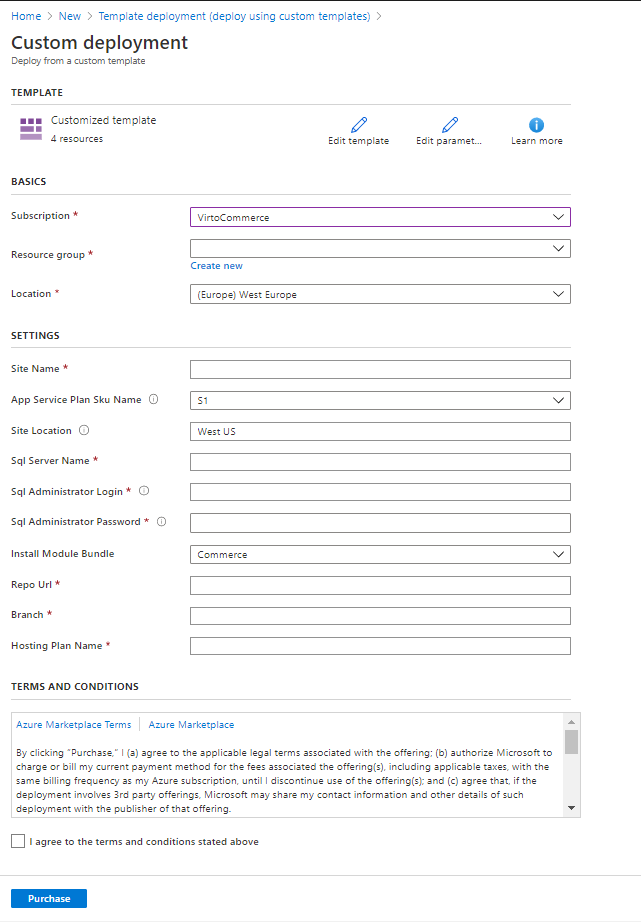
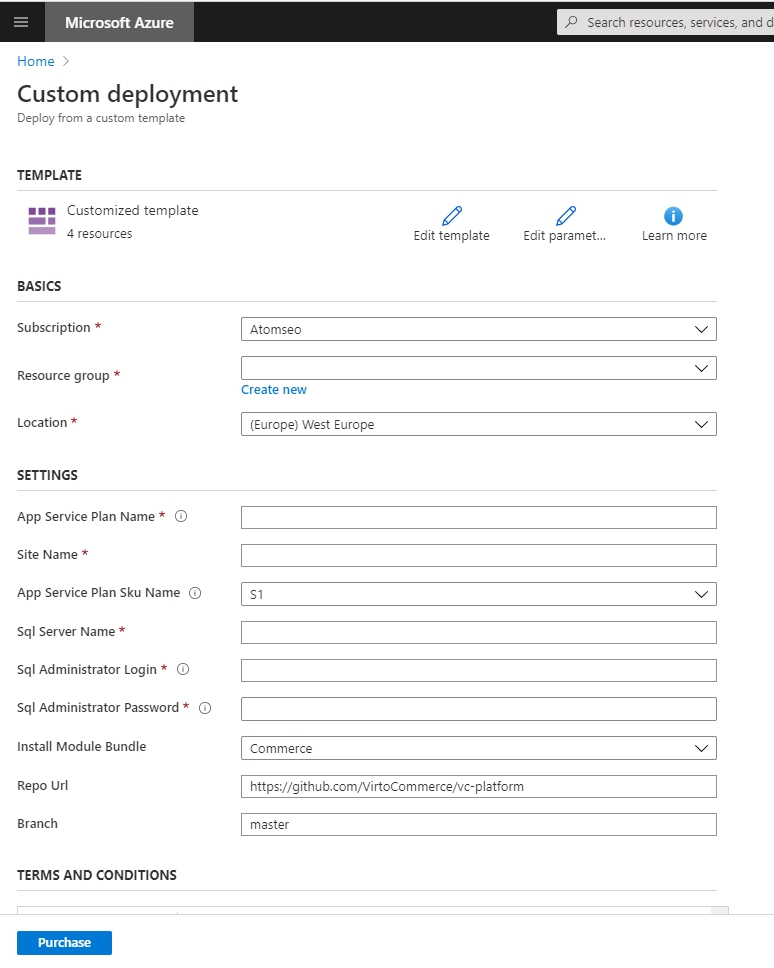
Add documentation Deploy Storefront to azure.

diff --git a/docs/getting-started/deploy-from-precompiled-binaries-azure.md b/docs/getting-started/deploy-from-precompiled-binaries-azure.md
@@ -15,12 +15,12 @@ The following resources will be created during deployment:
 * Website - Virto Commerce Platform.
 
 
-## Deploy to Azure from GitHub
+## From GitHub
 This sections describes how to use the Deploy to Azure button to deploy Virto Commerce Platform from a GitHub repository.
 
 !!! note
-    When a user clicks on the **Deploy to Azure** button, a “referrer” header is sent to azuredeploy.net which contains the location of the Git repository to deploy from.
-    This scenario is good if you want to install Virto Commerce platform from the sources.
+    * When a user clicks on the **Deploy to Azure** button, a “referrer” header is sent to azuredeploy.net which contains the location of the Git repository to deploy from.
+    * This scenario is good if you want to install Virto Commerce platform from the sources.
 
 !!! tip
     * Deploy problem can be related of using “Free” plan, change to Basic or Standard. [Read More](https://www.virtocommerce.org/t/deploy-virto-commerce-to-azure-and-getting-a-deployment-failure/72).
@@ -28,61 +28,61 @@ This sections describes how to use the Deploy to Azure button to deploy Virto Co
     * Your password must be at least 8 characters in length.
     * Your password must contain characters from three of the following categories – English uppercase letters, English lowercase letters, numbers (0-9), and non-alphanumeric characters (!, $, #, %, etc.).
 
-1. Open GitHub repository https://github.com/VirtoCommerce/vc-platform and select ![Deploy to Azure](https://aka.ms/deploytoazurebutton) button.
-1. It opens Deploy to Azure wizard and takes control over how Virto Commerce Application gets deployed to the Azure cloud.
-   ![Deploy to azure](../media/deploy-to-azure-wizard.png)
+This sections describes how to deploy Virto Commerce Platform from Custom [azuredeploy.json](https://github.com/VirtoCommerce/vc-platform/blob/master/azuredeploy.json) ARM Template.
+
+To run the deployment of Platform, select the following button:
+
+[![Deploy to Azure](https://aka.ms/deploytoazurebutton)](https://portal.azure.com/#create/Microsoft.Template/uri/https%3A%2F%2Fraw.githubusercontent.com%2FVirtoCommerce%2Fvc-platform%2Fmaster%2Fazuredeploy.json)
+
+1. The portal displays a pane that allows you to easily provide parameter values. The parameters are pre-filled with the default values from the template.
+    ![Deploy to azure - custom template](../media/deploy-to-azure-custom-wizard.png)
 1. Select Subscription and Fill required parameters.  
-1. Select **Next**. 
-    ![Deploy to azure](../media/deploy-to-azure-wizard.png)
-1. Select **Deploy** and wait. 
-    ![Deploy to azure](../media/deploy-to-azure-wizard-step2.png)
-1. It can take time to crate resources, download and compile the source from GitHub.
-    ![Deploy to azure](../media/deploy-to-azure-wizard-step3-progress.png)
+1. Select **Purchase**. 
+    ![Deploy to azure - custom template](../media/deploy-to-azure-customtemplate-purchase.png)
+1. Wait until the deployment has been completed.
 1. Open url in your browser. 
-    ![Deploy to azure](../media/deploy-to-azure-wizard-finish.png)
 1. The application will create and initialize database on the first request. After that you should see the sign in page. Use the following credentials:
-    * Login: **admin**
+    * User Name: **admin**
     * Password: **store**
     ![Deploy to azure](../media/deploy-to-azure-vc-login.png)
 1. Install Commerce modules and restart the platform.
     ![Deploy to azure](../media/deploy-to-azure-vc-restart.png)
 1. Install sample data if required. 
 
+## Storefront from GitHub
 
-## Deploy to Azure from Custom Template
+This sections describes how to deploy Virto Commerce Storefront from Custom [azuredeploy.json](https://github.com/VirtoCommerce/vc-platform/blob/master/azuredeploy.json) ARM Template.
 
-This sections describes how to deploy Virto Commerce Platform from Custom ARM Template.
+!!! note
+    The Virto Commerce Platform should be installed. 
 
-1. Sign-in to [Azure Portal](https://portal.azure.com/).
-1. Select **Template deployment** to deploy using custom templates.
-   ![Deploy to azure - custom template](../media/deploy-to-azure-find-customtemplate.png)
-1. Select **Create**.
-   ![Deploy to azure - custom template](../media/deploy-to-azure-customtemplate.png)
-1. Select **Build your own template in the editor**.
-   ![Deploy to azure - custom template](../media/deploy-to-azure-customtemplate-owntemplate.png)
-1. Load template file from [azuredeploy.json](zuredeploy.json).
-1. Select **Save**.
-    ![Deploy to azure - custom template](../media/deploy-to-azure-custom-wizard.png)
+To run the deployment of Storefront, select the following button:
+
+[![Deploy to Azure](https://aka.ms/deploytoazurebutton)](https://portal.azure.com/#create/Microsoft.Template/uri/https%3A%2F%2Fraw.githubusercontent.com%2FVirtoCommerce%2Fvc-storefront%2Fmaster%2Fazuredeploy.json)
+
+!!! tip
+    How to get Content Storage Connection String:
+
+    1. Open [Azure Portal](https://portal.azure.com/)
+    1. Select **Storage Account** which you created when deploy the Virto Commerce Platform.
+    1. Select **Access Keys** and copy **Connection string**. Ex:
+        `DefaultEndpointsProtocol=https;AccountName=vc...`
+    1. Add prefix **provider=AzureBlobStorage;rootPath=cms;**
+    1. So, Content Storage Connection String is: 
+        `provider=AzureBlobStorage;rootPath=cms;DefaultEndpointsProtocol=https;AccountName=vc...`
+
+1. The portal displays a pane that allows you to easily provide parameter values. The parameters are pre-filled with the default values from the template.
+    ![Deploy to azure - custom template](../media/deploy-to-azure-custom-wizard-storefront.png)
 1. Select Subscription and Fill required parameters.  
 1. Select **Purchase**. 
-    ![Deploy to azure - custom template](../media/deploy-to-azure-customtemplate-purchase.png)
 1. Wait until the deployment has been completed.
-1. Navigate to the <a href="https://github.com/VirtoCommerce/vc-platform/releases">Releases section of Virto Commerce Platform in GitHub.</a>
-1. You will find **VirtoCommerce.Platform.3.x.x.zip** file. In this file the site has already been built and can be run without additional compilation. The source code is not included. 
-1. Select **Application Services** > **Application Service** > **Advanced Tools** and Open Kudu console. 
-1. Unpack release to `D:\home\site\wwwroot\platform` folder.  
-    ![Deploy to azure - custom template](../media/deploy-to-azure-customtemplate-uploadplatform.png)
-1. Open url in your browser. 
-1. The application will create and initialize database on the first request. After that you should see the sign in page. Use the following credentials:
-    * Login: **admin**
-    * Password: **store**
-1. Install Commerce modules and restart the platform.
-1. Install sample data if required. 
+1. Open url in your browser.  
 
-## Deploy to Azure via PowerShell
+
+## Deploy via PowerShell
 Read [Azure Resource Manager documentation](https://docs.microsoft.com/en-us/azure/azure-resource-manager/templates/deploy-powershell) to
 deploy Virto Commerce Platform from Custom Template [azuredeploy.json](https://github.com/VirtoCommerce/vc-platform/blob/master/azuredeploy.json) to Azure via PowerShell.
 
-## Deploy to Azure via Azure CLI
+## Deploy via Azure CLI
 Read  [Azure Resource Manager documentation](https://docs.microsoft.com/en-us/azure/azure-resource-manager/templates/deploy-cli) to
 deploy Virto Commerce Platform from Custom Template [azuredeploy.json](https://github.com/VirtoCommerce/vc-platform/blob/master/azuredeploy.json)  to Azure via CLI.

diff --git a/docs/getting-started/connect-storefront-to-platform-v3.md b/docs/getting-started/connect-storefront-to-platform-v3.md
@@ -53,7 +53,7 @@ On Mac OS and Linux:
     ```console
     ln -s ~/vc-storefront/wwwroot/cms-content ~/vc-platform/wwwroot/cms-content
     ```
-1. If you did not install sample data with your platform, you need to create new store in platform manager and download themes as it described in this article: [Theme development](../fundamentals/theme-development.md)
+1. If you did not install sample data with your platform, you need to create new store in platform manager and download themes as it described in this article: [Theme development](../user-guide/getting-started.md)
 
 ### Running the Storefront only on HTTP schema
  

diff --git a/README.md b/README.md
@@ -1,6 +1,6 @@
 # Platform 3 Overview
 
-[![Deploy to Azure](https://azuredeploy.net/deploybutton.png)](https://azuredeploy.net/)
+[![Deploy to Azure](https://aka.ms/deploytoazurebutton)](https://portal.azure.com/#create/Microsoft.Template/uri/https%3A%2F%2Fraw.githubusercontent.com%2FVirtoCommerce%2Fvc-platform%2Fmaster%2Fazuredeploy.json)
 
 Virto Commerce is a highly scalable eCommerce product for fast-growing and large companies. It provides powerful enterprise-class features right out-of-the-box and gives you the flexibility to create your own unique eCommerce solution while utilizing agile principles.
 
